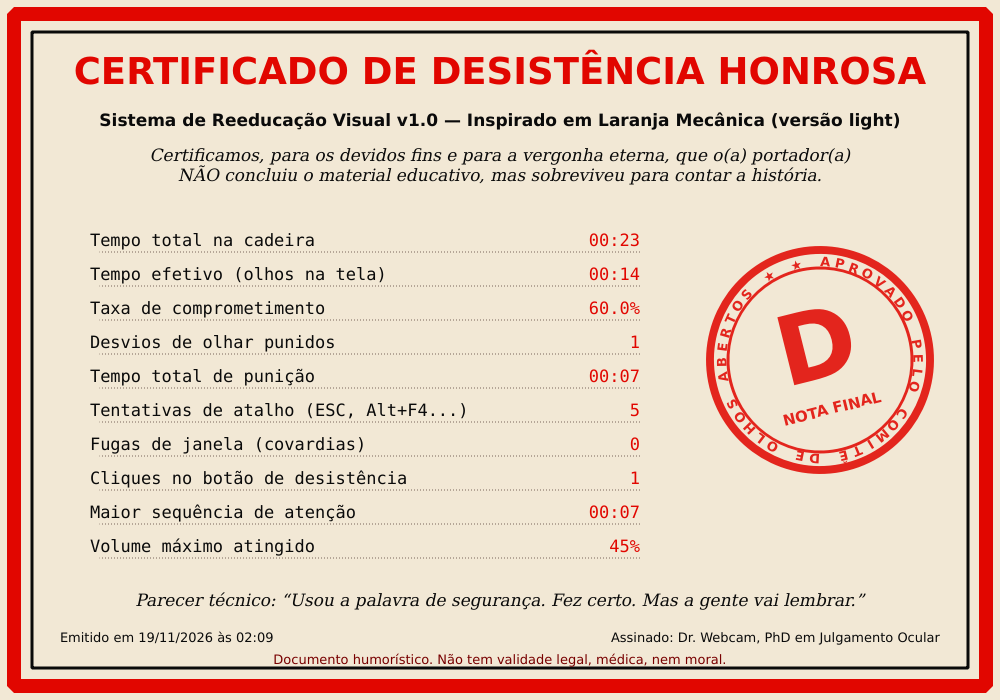
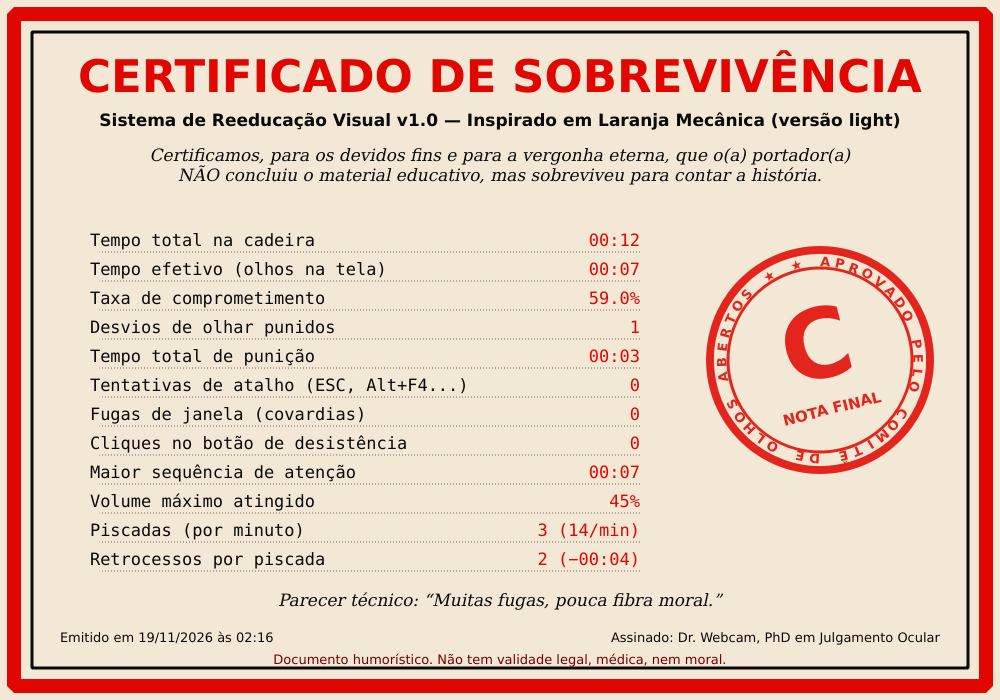
Add blink counter and optional blink-rewind mode
- BlinkDetector: raw eyeBlink blendshape with hysteresis; close+reopen
  within 0.6s counts as a blink (longer closures stay with the attention
  state machine)
- blink count shown in the HUD and on the certificate (with blinks/min)
- "Modo Pálpebra Proibida" (splash checkbox / --piscou-voltou): each
  blink rewinds the video 10s and subtracts from effective progress;
  no rewind while already paused by punishment
- demo mode: right click simulates a blink
- unit tests for the detector

Claude-Session: https://claude.ai/code/session_01JNY4DhPpbrtJK4t3UJL8aK

diff --git a/reeducacao_visual/rv/ui/session.py b/reeducacao_visual/rv/ui/session.py
@@ -8,6 +8,7 @@ Regras do jogo:
   * Minimizar/trocar de janela -> pausa e "Covarde detectado".
   * Atalhos (ESC, Alt+F4, Ctrl+W, espaço, setas...) viram broncas.
   * Botão de desistência escondido -> reinicia o vídeo do zero.
+  * Piscadas são contadas; no Modo Pálpebra Proibida cada uma volta o vídeo 10s.
   * Palavra de segurança (config.SAFEWORD) -> sai DE VERDADE. Sempre.
 
 O que este programa NÃO faz (de propósito): não instala hooks de teclado no
@@ -78,7 +79,8 @@ class SessionWindow(QWidget):
         self.setStyleSheet(f"QWidget#session{{background:{C.BLACK};}} QLabel{{background:transparent;}}")
         self.setFocusPolicy(Qt.FocusPolicy.StrongFocus)
 
-        self.stats = SessionStats()
+        self.stats = SessionStats(blink_rewind_mode=opts.blink_rewind)
+        self._last_blink_voice = 0.0
         self.monitor = AttentionMonitor(C.LOOK_AWAY_TOLERANCE_S, C.LOOK_BACK_REQUIRED_S)
         self.voice = Voice(opts.voice)
         self.phase = _Phase.CALIBRATING
@@ -247,6 +249,7 @@ class SessionWindow(QWidget):
         self.tracker.sample.connect(self._on_sample)
         self.tracker.preview.connect(self.camera.set_image)
         self.tracker.failed.connect(self._on_tracker_failed)
+        self.tracker.blink.connect(self._on_blink)
         if not self.opts.use_webcam:
             self.camera.view.setText("MODO DEMO\no mouse é\nseus olhos")
 
@@ -330,6 +333,27 @@ class SessionWindow(QWidget):
         self.toast.pop(random.choice(C.RESUME_MESSAGES))
         self._apply_playback()
 
+    def _on_blink(self):
+        """Uma piscada completa. Sempre conta; no Modo Pálpebra Proibida, rebobina."""
+        if self.phase != _Phase.RUNNING:
+            return
+        self.stats.blink_count += 1
+        if not self.opts.blink_rewind or self.monitor.is_punished or self.escape_paused:
+            return  # vídeo já está pausado: castigo em dobro seria crueldade (de verdade)
+        pos = self.player.position()
+        back_ms = min(pos, int(C.BLINK_REWIND_S * 1000))
+        self.player.setPosition(pos - back_ms)
+        back = back_ms / 1000
+        self.video_effective = max(0.0, self.video_effective - back)
+        self.stats.blink_rewinds += 1
+        self.stats.blink_rewound_s += back
+        msg = random.choice(C.BLINK_REWIND_MESSAGES).format(s=C.BLINK_REWIND_S)
+        self.toast.pop(f"⏪ {msg}", 1800)
+        now = time.monotonic()
+        if now - self._last_blink_voice > 6:  # a voz não acompanha o ritmo das suas pálpebras
+            self._last_blink_voice = now
+            self.voice.say(msg)
+
     def _on_give_up(self):
         if self.phase != _Phase.RUNNING:
             return
@@ -380,6 +404,11 @@ class SessionWindow(QWidget):
     def eventFilter(self, obj: QObject, e: QEvent) -> bool:
         if self.phase == _Phase.FINISHED or QApplication.activeModalWidget() is not None:
             return False
+        # modo demo: botão direito do mouse = piscar
+        if (not self.opts.use_webcam and e.type() == QEvent.Type.MouseButtonPress
+                and e.button() == Qt.MouseButton.RightButton):
+            self.tracker.blink.emit()
+            return True
         if e.type() == QEvent.Type.ShortcutOverride:
             e.accept()      # nenhum atalho global do Qt dispara durante a sessão
             return True
@@ -502,7 +531,9 @@ class SessionWindow(QWidget):
             f"{ep}Efetivo <span style='color:{C.RED}'>{fmt_time(self.video_effective)}</span>"
             f" / {fmt_time(dur)} · Total na cadeira {fmt_time(s.total_time)}"
             f" · Desvios <span style='color:{C.RED}'>{s.look_away_count}</span>"
-            f" · Punição {fmt_time(s.punishment_time)}"
+            f" · Piscadas <span style='color:{C.RED}'>{s.blink_count}</span>"
+            + (f" (⏪ −{fmt_time(s.blink_rewound_s)})" if self.opts.blink_rewind else "")
+            + f" · Punição {fmt_time(s.punishment_time)}"
             f" · <i style='color:#a08a80'>veredito: {reason}</i>"
         )
         self.lbl_volume.setText(f"VOLUME {self.volume * 100:.0f}%")

diff --git a/reeducacao_visual/rv/gaze.py b/reeducacao_visual/rv/gaze.py
@@ -139,6 +139,40 @@ def classify(m: GazeMetrics | None, base: GazeMetrics) -> tuple[bool, str]:
     return True, "olhando (bom menino)"
 
 
+class BlinkDetector:
+    """
+    Detecta piscadas: a nota de "olho fechado" sobe acima do limiar e volta
+    a cair (com histerese) em até BLINK_MAX_DURATION_S. Usa o valor bruto
+    (sem suavização), senão uma piscada de 150 ms some na média.
+    Olho fechado por muito tempo não é piscada; é cochilo, e quem cuida
+    disso é a máquina de atenção.
+    """
+
+    def __init__(self, close_thr: float = C.BLINK_EVENT_CLOSE,
+                 hysteresis: float = C.BLINK_HYSTERESIS,
+                 max_duration: float = C.BLINK_MAX_DURATION_S):
+        self.close_thr = close_thr
+        self.hysteresis = hysteresis
+        self.max_duration = max_duration
+        self._closed_since: float | None = None
+
+    def update(self, score: float | None, now: float, baseline: float = 0.0) -> bool:
+        """Retorna True no frame em que uma piscada completa é detectada."""
+        if score is None:  # rosto sumiu no meio: não dá pra afirmar nada
+            self._closed_since = None
+            return False
+        close = max(self.close_thr, baseline + 0.25)
+        if self._closed_since is None:
+            if score >= close:
+                self._closed_since = now
+            return False
+        if score <= close - self.hysteresis:
+            duration = now - self._closed_since
+            self._closed_since = None
+            return duration <= self.max_duration
+        return False
+
+
 def baseline_from(samples: list[GazeMetrics]) -> GazeMetrics:
     """Mediana das amostras de calibração (robusta a piscadas)."""
     med = statistics.median
@@ -160,6 +194,7 @@ class GazeTracker(QThread):
     sample = pyqtSignal(object)    # GazeSample
     preview = pyqtSignal(QImage)   # miniatura com os olhos marcados
     failed = pyqtSignal(str)
+    blink = pyqtSignal()           # uma piscada completa (fechou e abriu)
 
     def __init__(self, camera_index: int = C.CAMERA_INDEX, model_path=C.MODEL_PATH):
         super().__init__()
@@ -223,6 +258,7 @@ class GazeTracker(QThread):
         t0 = time.monotonic()
         last_ts = -1
         smoothed: GazeMetrics | None = None
+        blinks = BlinkDetector()
         frame_no = 0
         try:
             while self._running:
@@ -253,6 +289,8 @@ class GazeTracker(QThread):
                     base = self._baseline
 
                 looking, reason = classify(smoothed, base)
+                if blinks.update(raw.blink if raw else None, time.monotonic(), base.blink):
+                    self.blink.emit()
                 self.sample.emit(
                     GazeSample(looking, smoothed is not None, reason, smoothed, time.monotonic())
                 )
@@ -291,12 +329,14 @@ class MouseGazeTracker(QObject):
     """
     Substituto para quem não tem webcam (ou quer testar a interface).
     "Olhando" = cursor do mouse dentro da região central da tela.
+    "Piscar" = clique com o botão direito (a sessão emite o sinal).
     Mesma interface de sinais do GazeTracker.
     """
 
     sample = pyqtSignal(object)
     preview = pyqtSignal(QImage)
     failed = pyqtSignal(str)
+    blink = pyqtSignal()
 
     def __init__(self, *_, **__):
         super().__init__()

diff --git a/reeducacao_visual/rv/ui/splash.py b/reeducacao_visual/rv/ui/splash.py
@@ -34,6 +34,7 @@ class SessionOptions:
     voice: bool = True
     use_webcam: bool = True
     camera_index: int = C.CAMERA_INDEX
+    blink_rewind: bool = False
 
 
 STYLE = f"""
@@ -63,7 +64,7 @@ class SplashWindow(QWidget):
         self.setObjectName("splash")
         self.setWindowTitle(f"{C.TITLE} — {C.SUBTITLE}")
         self.setStyleSheet(STYLE)
-        self.resize(1000, 860)
+        self.resize(1000, 900)
         self._opts = preset
 
         root = QVBoxLayout(self)
@@ -130,10 +131,15 @@ class SplashWindow(QWidget):
         self.cb_voice.setChecked(preset.voice)
         self.cb_webcam = QCheckBox("Rastreamento ocular via webcam (desmarque = modo demo: o mouse finge ser seus olhos)")
         self.cb_webcam.setChecked(preset.use_webcam)
+        self.cb_blink = QCheckBox(
+            f"Modo Pálpebra Proibida: cada piscada volta o vídeo {C.BLINK_REWIND_S:.0f} segundos "
+            "(o contador de piscadas funciona sempre)"
+        )
+        self.cb_blink.setChecked(preset.blink_rewind)
         self.cb_consent = QCheckBox("Eu consinto livremente com esta experiência ridícula e sei a palavra de segurança.")
         self.cb_consent.setStyleSheet(f"color:{C.RED}; font-weight:bold;")
         self.cb_consent.toggled.connect(self._refresh)
-        for cb in (self.cb_laranja, self.cb_voice, self.cb_webcam, self.cb_consent):
+        for cb in (self.cb_laranja, self.cb_voice, self.cb_webcam, self.cb_blink, self.cb_consent):
             root.addWidget(cb)
 
         root.addStretch()
@@ -183,5 +189,6 @@ class SplashWindow(QWidget):
                 voice=self.cb_voice.isChecked(),
                 use_webcam=self.cb_webcam.isChecked(),
                 camera_index=self._opts.camera_index,
+                blink_rewind=self.cb_blink.isChecked(),
             )
         )

diff --git a/reeducacao_visual/rv/config.py b/reeducacao_visual/rv/config.py
@@ -43,7 +43,14 @@ MAX_PITCH_DEG = 18.0       # cabeça para cima/baixo
 MAX_IRIS_H_OFFSET = 0.13   # deslocamento horizontal da íris (0..1 do olho)
 MAX_EYE_V_OFFSET = 0.40    # olhar para cima/baixo (blendshapes)
 BLINK_CLOSED = 0.55        # acima disso, consideramos olho fechado
-SMOOTHING = 0.35           # EMA: 0 = sem suavização, 1 = congelado
+SMOOTHING = 0.35
+
+# Piscadas (detector separado: fecha e abre rápido = piscada;
+# fechado por muito tempo = cochilo, quem pune é a máquina de atenção)
+BLINK_EVENT_CLOSE = 0.45     # nota de "olho fechado" que caracteriza a piscada
+BLINK_HYSTERESIS = 0.15      # precisa cair até CLOSE - isto para contar como reaberto
+BLINK_MAX_DURATION_S = 0.6   # mais que isso não é piscada
+BLINK_REWIND_S = 10.0        # Modo Pálpebra Proibida: quanto o vídeo volta por piscada           # EMA: 0 = sem suavização, 1 = congelado
 CAMERA_INDEX = 0
 CAMERA_FPS = 30
 
@@ -112,5 +119,15 @@ VOICE_LINES_ON_START = [
 CALIBRATION_TEXT = (
     "CALIBRAÇÃO\n\nEncare o centro da tela.\nNão pisque. Sim, é sério."
 )
+
+BLINK_REWIND_MESSAGES = [
+    "Piscou. Volta {s:.0f} segundos. Regras são regras.",
+    "Pálpebra não autorizada detectada. Rebobinando.",
+    "Você piscou. O Torajo viu. Volta tudo.",
+    "Piscar é um privilégio. Você não tem privilégios.",
+    "Mais uma piscada, mais {s:.0f} segundos de reeducação. Obrigado pela preferência.",
+    "Seus olhos fecharam por 0,2 s e isso custou {s:.0f} s. Vale a pena?",
+    "Rebobinando... porque você não aguenta 1 minuto sem piscar.",
+]
 
 NO_FACE_MESSAGE = "Rosto não encontrado. Você se escondeu embaixo da mesa?"

diff --git a/reeducacao_visual/tests/test_gaze.py b/reeducacao_visual/tests/test_gaze.py
@@ -58,3 +58,29 @@ def test_no_face_and_helpers():
     assert b.yaw == 2
     s = smooth(GazeMetrics(yaw=179), GazeMetrics(yaw=-179), 0.5)  # atravessa ±180 sem pular
     assert abs(abs(s.yaw) - 180) < 1.5
+
+
+def _feed_blinks(det, scores, fps=30.0, baseline=0.0):
+    """Alimenta uma sequência de notas de olho fechado; retorna nº de piscadas detectadas."""
+    return sum(det.update(s, i / fps, baseline) for i, s in enumerate(scores))
+
+
+def test_blink_detector_counts_quick_blinks():
+    from rv.gaze import BlinkDetector
+
+    open_, closed = [0.05] * 10, [0.8] * 5          # 5 frames ≈ 170 ms fechado
+    assert _feed_blinks(BlinkDetector(), open_ + closed + open_ + closed + open_) == 2
+
+
+def test_blink_detector_ignores_long_closure_noise_and_hysteresis():
+    from rv.gaze import BlinkDetector
+
+    open_ = [0.05] * 10
+    assert _feed_blinks(BlinkDetector(), open_ + [0.9] * 45 + open_) == 0   # 1,5 s = cochilo
+    assert _feed_blinks(BlinkDetector(), open_ + [0.40] * 5 + open_) == 0   # abaixo do limiar
+    # oscila perto do limiar sem reabrir de verdade: não conta várias vezes
+    assert _feed_blinks(BlinkDetector(), open_ + [0.5, 0.36, 0.5, 0.36, 0.5] + open_) == 1
+    # rosto some com o olho fechado: não afirma nada
+    assert _feed_blinks(BlinkDetector(), open_ + [0.8, 0.8, None] + open_) == 0
+    # pessoa de olhos naturalmente "meio fechados": limiar sobe com a calibração
+    assert _feed_blinks(BlinkDetector(), [0.35] * 10 + [0.5] * 4 + [0.35] * 10, baseline=0.35) == 0

diff --git a/reeducacao_visual/main.py b/reeducacao_visual/main.py
@@ -15,6 +15,7 @@ Uso:
     python main.py --video a.mp4 b.mp4     # playlist
     python main.py --sem-webcam            # modo demo: o mouse finge ser seus olhos
     python main.py --camera 1              # outra webcam
+    python main.py --piscou-voltou         # cada piscada volta o vídeo 10 segundos
     python main.py --direto --video x.mp4  # pula a tela inicial (consentimento implícito: você digitou o comando)
 """
 
@@ -39,6 +40,8 @@ def parse_args(argv=None):
     ap.add_argument("--camera", type=int, default=C.CAMERA_INDEX, help="índice da webcam (padrão 0)")
     ap.add_argument("--sem-voz", action="store_true", help="desliga a voz passivo-agressiva")
     ap.add_argument("--sem-laranja", action="store_true", help="desliga o overlay de cílios")
+    ap.add_argument("--piscou-voltou", action="store_true",
+                    help=f"Modo Pálpebra Proibida: cada piscada volta o vídeo {C.BLINK_REWIND_S:.0f}s")
     ap.add_argument("--direto", action="store_true", help="pula a tela inicial (exige --video)")
     return ap.parse_args(argv)
 
@@ -54,6 +57,7 @@ def main(argv=None) -> int:
         voice=not args.sem_voz,
         use_webcam=not args.sem_webcam,
         camera_index=args.camera,
+        blink_rewind=args.piscou_voltou,
     )
     windows = {}
 

diff --git a/reeducacao_visual/rv/ui/certificate.py b/reeducacao_visual/rv/ui/certificate.py
@@ -65,6 +65,9 @@ class CertificateCanvas(QWidget):
             ("Cliques no botão de desistência", str(s.give_ups)),
             ("Maior sequência de atenção", fmt_time(s.longest_streak)),
             ("Volume máximo atingido", f"{s.max_volume * 100:.0f}%"),
+            ("Piscadas (por minuto)", f"{s.blink_count} ({s.blinks_per_minute:.0f}/min)"),
+            ("Retrocessos por piscada",
+             f"{s.blink_rewinds} (−{fmt_time(s.blink_rewound_s)})" if s.blink_rewind_mode else "modo desligado"),
         ]
         p.setFont(QFont("DejaVu Sans Mono", 13))
         y = 230
@@ -75,7 +78,7 @@ class CertificateCanvas(QWidget):
             p.drawLine(100, int(y + 22), 640, int(y + 22))
             p.setPen(QColor(C.RED))
             p.drawText(QRectF(470, y, 170, 28), Qt.AlignmentFlag.AlignRight, value)
-            y += 34
+            y += 29
 
         # carimbo da nota
         grade, comment = s.verdict()

diff --git a/reeducacao_visual/rv/stats.py b/reeducacao_visual/rv/stats.py
@@ -25,6 +25,10 @@ class SessionStats:
     give_ups: int = 0                # cliques no botão de desistência escondido
     max_volume: float = 0.0
     longest_streak: float = 0.0      # maior sequência contínua olhando
+    blink_count: int = 0             # piscadas detectadas durante o vídeo
+    blink_rewinds: int = 0           # vezes que o vídeo voltou por piscada
+    blink_rewound_s: float = 0.0     # segundos de vídeo perdidos piscando
+    blink_rewind_mode: bool = False
     _streak: float = 0.0
     completed: bool = False
     safeword_used: bool = False
@@ -39,6 +43,10 @@ class SessionStats:
             self._streak = 0.0
         if punished:
             self.punishment_time += dt
+
+    @property
+    def blinks_per_minute(self) -> float:
+        return self.blink_count / (self.total_time / 60) if self.total_time > 1 else 0.0
 
     @property
     def commitment(self) -> float:

diff --git a/reeducacao_visual/README.md b/reeducacao_visual/README.md
@@ -40,9 +40,10 @@ Depois de baixado o modelo, **tudo roda offline**.
 python main.py                              # tela inicial dramática
 python main.py --video torajo.mp4           # já pré-seleciona o vídeo
 python main.py --video ep1.mp4 ep2.mp4      # playlist
-python main.py --sem-webcam                 # modo demo: o cursor do mouse finge ser seus olhos
+python main.py --sem-webcam                 # modo demo: o cursor do mouse finge ser seus olhos (botão direito = piscar)
 python main.py --camera 1                   # outra webcam
 python main.py --sem-voz --sem-laranja      # sem voz / sem o overlay de cílios
+python main.py --piscou-voltou              # Modo Pálpebra Proibida: cada piscada volta 10 s
 python main.py --direto --video x.mp4       # pula a tela inicial
 ```
 
@@ -59,13 +60,14 @@ o app é offline de propósito.
 | Minimizar / trocar de janela | Pausa + *"Covarde detectado. Voltando à terapia..."* e a janela tenta voltar |
 | Botão de desistência escondido (procure no canto) | *"Fraqueza detectada. Reiniciando o vídeo do zero."* |
 | Fechou os olhos | Conta como desvio. Piscar é tolerado; dormir não |
+| Piscou | Sempre entra no **contador de piscadas** (HUD e certificado). No **Modo Pálpebra Proibida** (opção na tela inicial ou `--piscou-voltou`), cada piscada **volta o vídeo 10 s** e desconta do progresso. Durante a punição o vídeo já está pausado, então a piscada só é contada |
 | Digitou `LARANJA` | Sai de verdade e recebe o certificado de **Desistência Honrosa** |
 
 A **barra de progresso** só avança enquanto seus olhos estão na tela e o vídeo está rodando.
 O período de tolerância de 1,5 s não conta. No final sai um **Certificado de Sobrevivência**
 (dá para salvar em PNG) com tempo total, tempo efetivo, taxa de comprometimento, desvios,
 tempo de punição, tentativas de fuga, maior sequência de atenção, volume máximo e uma nota
-de S+ a F.
+de S+ a F, além de piscadas por minuto e segundos perdidos piscando.
 
 **Extras:** voz sintetizada passivo-agressiva (QtTextToSpeech ou `pyttsx3`, se houver engine
 instalada) e o **Modo Laranja Mecânica**: pálpebras gigantes presas por grampos com cílios
@@ -79,7 +81,8 @@ tremendo nas bordas da tela. São só pixels, ninguém encosta no seu olho.
 - **yaw / pitch da cabeça**, pela decomposição da matriz de rotação (`cv2.RQDecomp3x3`);
 - **posição horizontal da íris**, projetando o centro da íris (468/473) no segmento entre os cantos do olho;
 - **olhar para cima/baixo**, pelos blendshapes `eyeLookUp*` / `eyeLookDown*`;
-- **olho fechado**, pelo blendshape `eyeBlink*`.
+- **olho fechado**, pelo blendshape `eyeBlink*`;
+- **piscadas**, por um detector à parte (`BlinkDetector`) que lê o valor bruto de `eyeBlink*` com histerese. Fechar e reabrir em até 0,6 s conta como piscada; fechar por mais tempo é cochilo e cai na regra de desvio.
 
 Antes do vídeo há uma **calibração** de 3 s (você encara um alvo no centro). Todas as métricas
 são comparadas com essa referência, porque a webcam quase nunca fica no centro do monitor.
